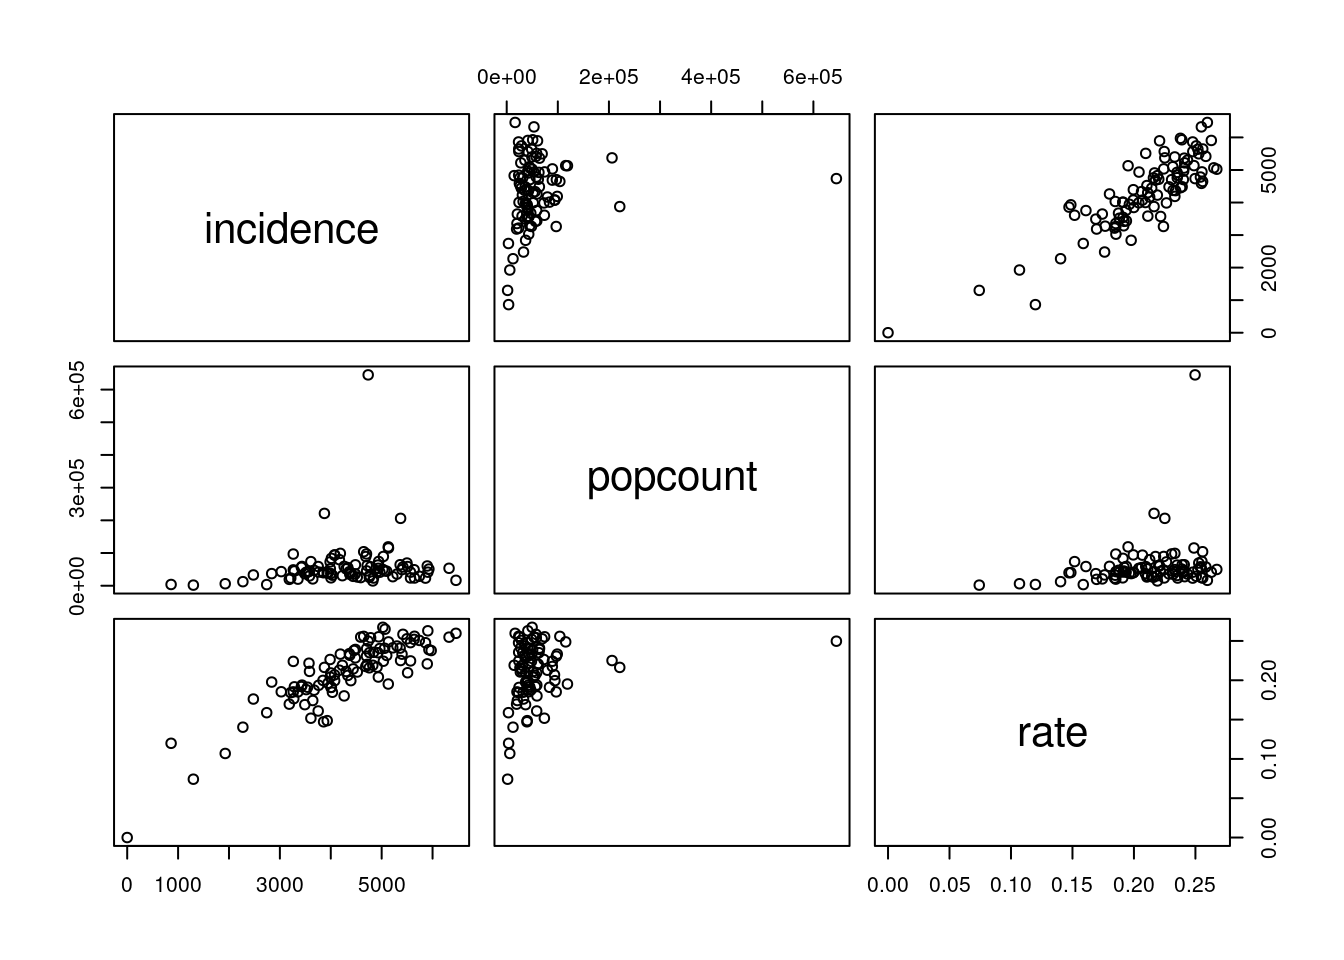
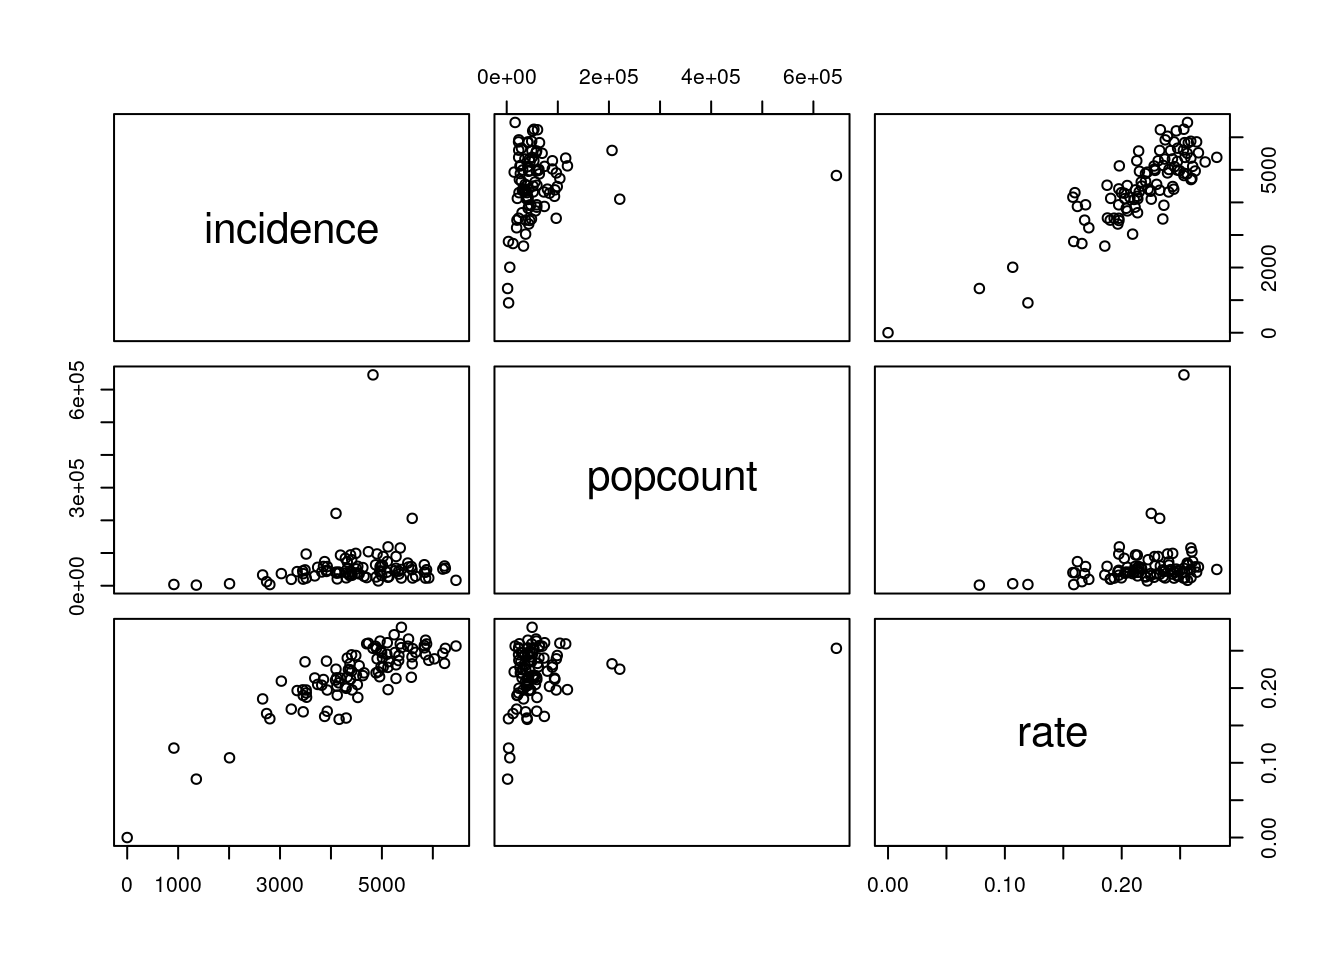
2022-01-26

diff --git a/docs/index.html b/docs/index.html
@@ -10,7 +10,7 @@
 
 
 
-<meta name="date" content="2022-01-25" />
+<meta name="date" content="2022-01-26" />
 
 <title>Covid-19 Stats for Denmark</title>
 
@@ -258,7 +258,7 @@ $(document).ready(function () {
 
 
 <h1 class="title toc-ignore">Covid-19 Stats for Denmark</h1>
-<h4 class="date">2022-01-25</h4>
+<h4 class="date">2022-01-26</h4>
 
 </div>
 
@@ -305,7 +305,7 @@ $(document).ready(function () {
 <pre class="r"><code>library(tidyverse)
 library(lubridate)</code></pre>
 <p>SSI’s data is in a zip file. We unpack this zip file into a directory of the general form <code>YYYY-MM-DD</code>. Lets set up a name for the current directory we want to grab data from</p>
-<pre class="r"><code>date &lt;- &quot;2022-01-25&quot;</code></pre>
+<pre class="r"><code>date &lt;- &quot;2022-01-26&quot;</code></pre>
 </div>
 <div id="ingesting-data" class="section level2">
 <h2>Ingesting data</h2>
@@ -347,7 +347,7 @@ library(lubridate)</code></pre>
                                       ))</code></pre>
 <pre><code>## ℹ Using &quot;&#39;,&#39;&quot; as decimal and &quot;&#39;.&#39;&quot; as grouping mark. Use `read_delim()` for more control.</code></pre>
 <pre class="r"><code>data</code></pre>
-<pre><code>## # A tibble: 6,641 × 9
+<pre><code>## # A tibble: 6,646 × 9
 ##    Region      Prøvetagningsdato Køn   `Bekræftede tilfælde`  Døde Indlæggelser
 ##    &lt;fct&gt;       &lt;date&gt;            &lt;fct&gt;                 &lt;dbl&gt; &lt;dbl&gt;        &lt;dbl&gt;
 ##  1 Sjælland    2020-02-26        M                         1     0            0
@@ -360,7 +360,7 @@ library(lubridate)</code></pre>
 ##  8 Hovedstaden 2020-03-03        F                         1     0            0
 ##  9 Hovedstaden 2020-03-03        M                         3     0            1
 ## 10 Hovedstaden 2020-03-04        M                         2     0            0
-## # … with 6,631 more rows, and 3 more variables: Kummuleret antal døde &lt;dbl&gt;,
+## # … with 6,636 more rows, and 3 more variables: Kummuleret antal døde &lt;dbl&gt;,
 ## #   Kummuleret antal bekræftede tilfælde &lt;dbl&gt;,
 ## #   Kummuleret antal indlæggelser &lt;dbl&gt;</code></pre>
 <p>We certainly don’t want to work with danish-named columns. Rather, we want small descriptive names which are easy to type. We send our dataset through a <code>rename</code> pass for this.</p>
@@ -375,7 +375,7 @@ library(lubridate)</code></pre>
 # Cut the cumulative columns away
 data &lt;- data %&gt;% select(region, date, gender, cases, deaths, hospitalizations)
 data</code></pre>
-<pre><code>## # A tibble: 6,641 × 6
+<pre><code>## # A tibble: 6,646 × 6
 ##    region      date       gender cases deaths hospitalizations
 ##    &lt;fct&gt;       &lt;date&gt;     &lt;fct&gt;  &lt;dbl&gt;  &lt;dbl&gt;            &lt;dbl&gt;
 ##  1 Sjælland    2020-02-26 M          1      0                0
@@ -388,7 +388,7 @@ data</code></pre>
 ##  8 Hovedstaden 2020-03-03 F          1      0                0
 ##  9 Hovedstaden 2020-03-03 M          3      0                1
 ## 10 Hovedstaden 2020-03-04 M          2      0                0
-## # … with 6,631 more rows</code></pre>
+## # … with 6,636 more rows</code></pre>
 <p>Provide a low cut-off. We are interested in the recent period with Omicron, rather than the full duration of Covid-19.</p>
 <pre class="r"><code>lo_cutoff &lt;- &#39;2021-09-01&#39;</code></pre>
 <p>The high end of that cutoff, we set to two days before the maximal date in our data set</p>
@@ -402,7 +402,7 @@ data</code></pre>
 # Put this into the summary
 summary &lt;- data
 summary</code></pre>
-<pre><code>## # A tibble: 1,440 × 6
+<pre><code>## # A tibble: 1,450 × 6
 ##    region      date       gender cases deaths hospitalizations
 ##    &lt;fct&gt;       &lt;date&gt;     &lt;fct&gt;  &lt;dbl&gt;  &lt;dbl&gt;            &lt;dbl&gt;
 ##  1 Hovedstaden 2021-09-01 F        210      0                7
@@ -415,7 +415,7 @@ summary</code></pre>
 ##  8 Nordjylland 2021-09-01 M         16      1                2
 ##  9 Sjælland    2021-09-01 M         37      0                3
 ## 10 Syddanmark  2021-09-01 M         41      0                1
-## # … with 1,430 more rows</code></pre>
+## # … with 1,440 more rows</code></pre>
 </div>
 <div id="weekly-key-figures-split-by-age" class="section level3">
 <h3>Weekly key figures split by age</h3>
@@ -506,15 +506,15 @@ data</code></pre>
 ##     lau1 name      `Bekræftede tilf… Incidens cases incidence tested tested_100k
 ##    &lt;dbl&gt; &lt;fct&gt;                 &lt;dbl&gt;    &lt;dbl&gt; &lt;dbl&gt;     &lt;dbl&gt;  &lt;dbl&gt;       &lt;dbl&gt;
 ##  1   411 &quot;&quot;                        0       NA     0         0     87       95604
-##  2   101 &quot;Københa…            226959    35392 30364      4735 649630      101000
-##  3   147 &quot;Frederi…             34078    33024  4795      4647 110528      107000
-##  4   151 &quot;Balleru…             15916    32361  2656      5400  49614      101000
-##  5   153 &quot;Brøndby&quot;             13287    37283  1889      5301  35769      100000
-##  6   155 &quot;Dragør&quot;               4583    31373   705      4826  14402       98590
-##  7   157 &quot;Gentoft…             23250    31450  3653      4941  75128      102000
-##  8   159 &quot;Gladsax…             22856    33054  3801      5497  71212      103000
-##  9   161 &quot;Glostru…              8118    34666  1322      5645  24144      103000
-## 10   163 &quot;Herlev&quot;              10502    36488  1652      5740  29478      102000
+##  2   101 &quot;Københa…            231238    36060 30942      4825 650027      101000
+##  3   147 &quot;Frederi…             34774    33699  4886      4735 110608      107000
+##  4   151 &quot;Balleru…             16370    33284  2750      5591  49641      101000
+##  5   153 &quot;Brøndby&quot;             13482    37830  1901      5334  35787      100000
+##  6   155 &quot;Dragør&quot;               4685    32071   720      4929  14419       98706
+##  7   157 &quot;Gentoft…             24019    32490  3775      5106  75202      102000
+##  8   159 &quot;Gladsax…             23477    33952  3809      5508  71269      103000
+##  9   161 &quot;Glostru…              8311    35490  1312      5603  24153      103000
+## 10   163 &quot;Herlev&quot;              10721    37249  1630      5663  29505      103000
 ## # … with 89 more rows, and 3 more variables: tested_1w &lt;dbl&gt;,
 ## #   tested_100k_1w &lt;dbl&gt;, population &lt;dbl&gt;</code></pre>
 <pre class="r"><code>muncipalities &lt;- data</code></pre>
@@ -674,23 +674,21 @@ muncipalities$incidence_type &lt;- ifelse(muncipalities$incidence_z &lt; 0, &quo
 muncipalities$rate_z &lt;- round(muncipalities$rate - mean(muncipalities$rate), 5)
 muncipalities$rate_type &lt;- ifelse(muncipalities$rate_z &lt; 0, &quot;Below mean&quot;, &quot;Above mean&quot;)
 muncipalities$rate</code></pre>
-<pre><code>##  [1] 0.00000000 0.24971216 0.25584249 0.23318701 0.24358478 0.21908017
-##  [7] 0.25529387 0.25272606 0.25595353 0.25068285 0.24126931 0.25483651
-## [13] 0.23781222 0.25408097 0.26292546 0.24776337 0.21673753 0.25972120
-## [19] 0.24786878 0.21585516 0.24042428 0.23505249 0.20412451 0.25489314
-## [25] 0.25845511 0.23155738 0.24070796 0.23895072 0.22019603 0.23520126
-## [31] 0.22422822 0.22463522 0.19984812 0.17613883 0.22643571 0.20930889
-## [37] 0.22400796 0.23181612 0.21280421 0.23557493 0.21129254 0.21444275
-## [43] 0.14867039 0.19108933 0.22085279 0.24018945 0.14718949 0.19951813
-## [49] 0.18814602 0.20395062 0.19090187 0.18477795 0.22510955 0.18013311
-## [55] 0.23790685 0.14034205 0.10691244 0.20618113 0.21052632 0.15173831
-## [61] 0.16899184 0.24881308 0.15878378 0.26738944 0.23382834 0.16094562
-## [67] 0.21119908 0.19948146 0.20690030 0.19523124 0.21753856 0.20957772
-## [73] 0.16964041 0.17426335 0.22169946 0.19773585 0.25201170 0.18428184
-## [79] 0.23327693 0.23064117 0.11985019 0.24090242 0.26497696 0.19117078
-## [85] 0.19200400 0.18745932 0.18522602 0.19165479 0.18537488 0.18524609
-## [91] 0.22851507 0.19385797 0.17660175 0.07419355 0.21902991 0.19364019
-## [97] 0.19627021 0.21636525 0.23921044</code></pre>
+<pre><code>##  [1] 0.0000000 0.2532493 0.2600458 0.2418008 0.2434059 0.2218798 0.2607404
+##  [8] 0.2560328 0.2527938 0.2478334 0.2354312 0.2531675 0.2391549 0.2628966
+## [15] 0.2640995 0.2447653 0.2151744 0.2562802 0.2538745 0.2277194 0.2452300
+## [22] 0.2404192 0.2128871 0.2593254 0.2656618 0.2368395 0.2476809 0.2467023
+## [29] 0.2285309 0.2473493 0.2311501 0.2371968 0.2106650 0.1855165 0.2402017
+## [36] 0.2247489 0.2351710 0.2325546 0.2226813 0.2541281 0.2135397 0.2203784
+## [43] 0.1581851 0.2021799 0.2330743 0.2495017 0.1599322 0.2047172 0.2137773
+## [50] 0.2149380 0.1997290 0.1975188 0.2325013 0.1874606 0.2532683 0.1659259
+## [57] 0.1067019 0.2167020 0.2203218 0.1620870 0.1682552 0.2591909 0.1589404
+## [64] 0.2813784 0.2445227 0.1690544 0.2170775 0.2117786 0.2133471 0.1979583
+## [71] 0.2281301 0.2144830 0.1718449 0.1905610 0.2361015 0.2093328 0.2590856
+## [78] 0.1935179 0.2436356 0.2391915 0.1197183 0.2569530 0.2714162 0.2038835
+## [85] 0.2048804 0.1974134 0.1901621 0.1976300 0.1966854 0.1974648 0.2299107
+## [92] 0.2114595 0.1877479 0.0781759 0.2246061 0.2070453 0.2026068 0.2252876
+## [99] 0.2559460</code></pre>
 <pre class="r"><code>ggplot(muncipalities %&gt;% mutate(name = fct_reorder(name, rate)), aes(x=name, y=rate)) +
   geom_bar(stat=&#39;identity&#39;, aes(fill=rate_type), width=.5)  +
   scale_colour_brewer(palette=&quot;Set2&quot;) +
@@ -750,15 +748,15 @@ popcount</code></pre>
 ##    name            incidence popcount
 ##    &lt;chr&gt;               &lt;dbl&gt;    &lt;dbl&gt;
 ##  1 &quot;&quot;                      0       NA
-##  2 &quot;København&quot;          4735   644987
-##  3 &quot;Frederiksberg&quot;      4647   103963
-##  4 &quot;Ballerup&quot;           5400    49228
-##  5 &quot;Brøndby&quot;            5301    35535
-##  6 &quot;Dragør&quot;             4826    14602
-##  7 &quot;Gentofte&quot;           4941    74154
-##  8 &quot;Gladsaxe&quot;           5497    69321
-##  9 &quot;Glostrup&quot;           5645    23519
-## 10 &quot;Herlev&quot;             5740    28861
+##  2 &quot;København&quot;          4825   644987
+##  3 &quot;Frederiksberg&quot;      4735   103963
+##  4 &quot;Ballerup&quot;           5591    49228
+##  5 &quot;Brøndby&quot;            5334    35535
+##  6 &quot;Dragør&quot;             4929    14602
+##  7 &quot;Gentofte&quot;           5106    74154
+##  8 &quot;Gladsaxe&quot;           5508    69321
+##  9 &quot;Glostrup&quot;           5603    23519
+## 10 &quot;Herlev&quot;             5663    28861
 ## # … with 89 more rows</code></pre>
 <p>Now, test correlation via Pearson:</p>
 <pre class="r"><code>plot(muncipalities$incidence, muncipalities$popcount)</code></pre>
@@ -768,13 +766,13 @@ popcount</code></pre>
 ##  Pearson&#39;s product-moment correlation
 ## 
 ## data:  muncipalities$incidence and muncipalities$popcount
-## t = 1.3688, df = 92, p-value = 0.1744
+## t = 1.3551, df = 92, p-value = 0.1787
 ## alternative hypothesis: true correlation is not equal to 0
 ## 95 percent confidence interval:
-##  -0.06314402  0.33432707
+##  -0.06456067  0.33306301
 ## sample estimates:
 ##       cor 
-## 0.1412805</code></pre>
+## 0.1398862</code></pre>
 <p>Clearly, this argues there are no strong connection between population count, and the incidence in a given muncipality.</p>
 <p>Analyzing the rate shows there’s a connection between it and incidence, but this is more expected:</p>
 <pre class="r"><code>pairs(muncipalities %&gt;% select(incidence,popcount,rate))</code></pre>
@@ -784,13 +782,13 @@ popcount</code></pre>
 ##  Pearson&#39;s product-moment correlation
 ## 
 ## data:  muncipalities$incidence and muncipalities$rate
-## t = 16.447, df = 97, p-value &lt; 2.2e-16
+## t = 15.639, df = 97, p-value &lt; 2.2e-16
 ## alternative hypothesis: true correlation is not equal to 0
 ## 95 percent confidence interval:
-##  0.7952053 0.9024951
+##  0.7788722 0.8942145
 ## sample estimates:
-##       cor 
-## 0.8579359</code></pre>
+##      cor 
+## 0.846177</code></pre>
 </div>
 </div>
 
